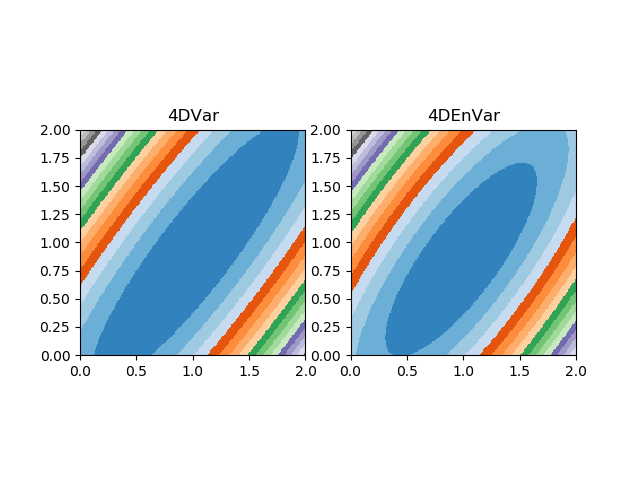
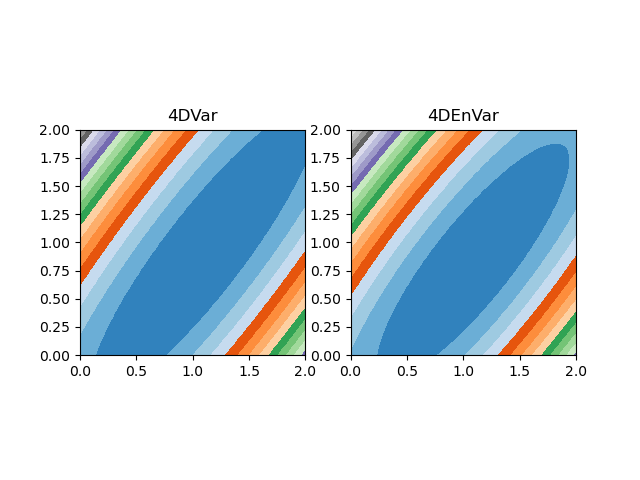
added new error surface computation with X'b*w in the background term

diff --git a/linear_tests/genLinear_JSurface.py b/linear_tests/genLinear_JSurface.py
@@ -91,9 +91,9 @@ class linearModelEnsemble_JSurf(linearModelEnsemble):
     
         fig, (ax1, ax2) = plt.subplots(1, 2)
         
-        ax1.imshow(surf_4DVar, cmap='tab20c', extent=[range1[0],range1[1],range2[0],range2[1]])
+        ax1.imshow(surf_4DVar, cmap='tab20c', vmin=minmin, vmax=maxmax, extent=[range1[0],range1[1],range2[0],range2[1]])
         ax1.set_title("4DVar") 
-        ax2.imshow(surf_4DEnVar, cmap='tab20c', extent=[range1[0],range1[1],range2[0],range2[1]])
+        ax2.imshow(surf_4DEnVar, cmap='tab20c', vmin=minmin, vmax=maxmax, extent=[range1[0],range1[1],range2[0],range2[1]])
         ax2.set_title("4DEnVar") 
         
         plt.savefig("jSurf_compare.png")
